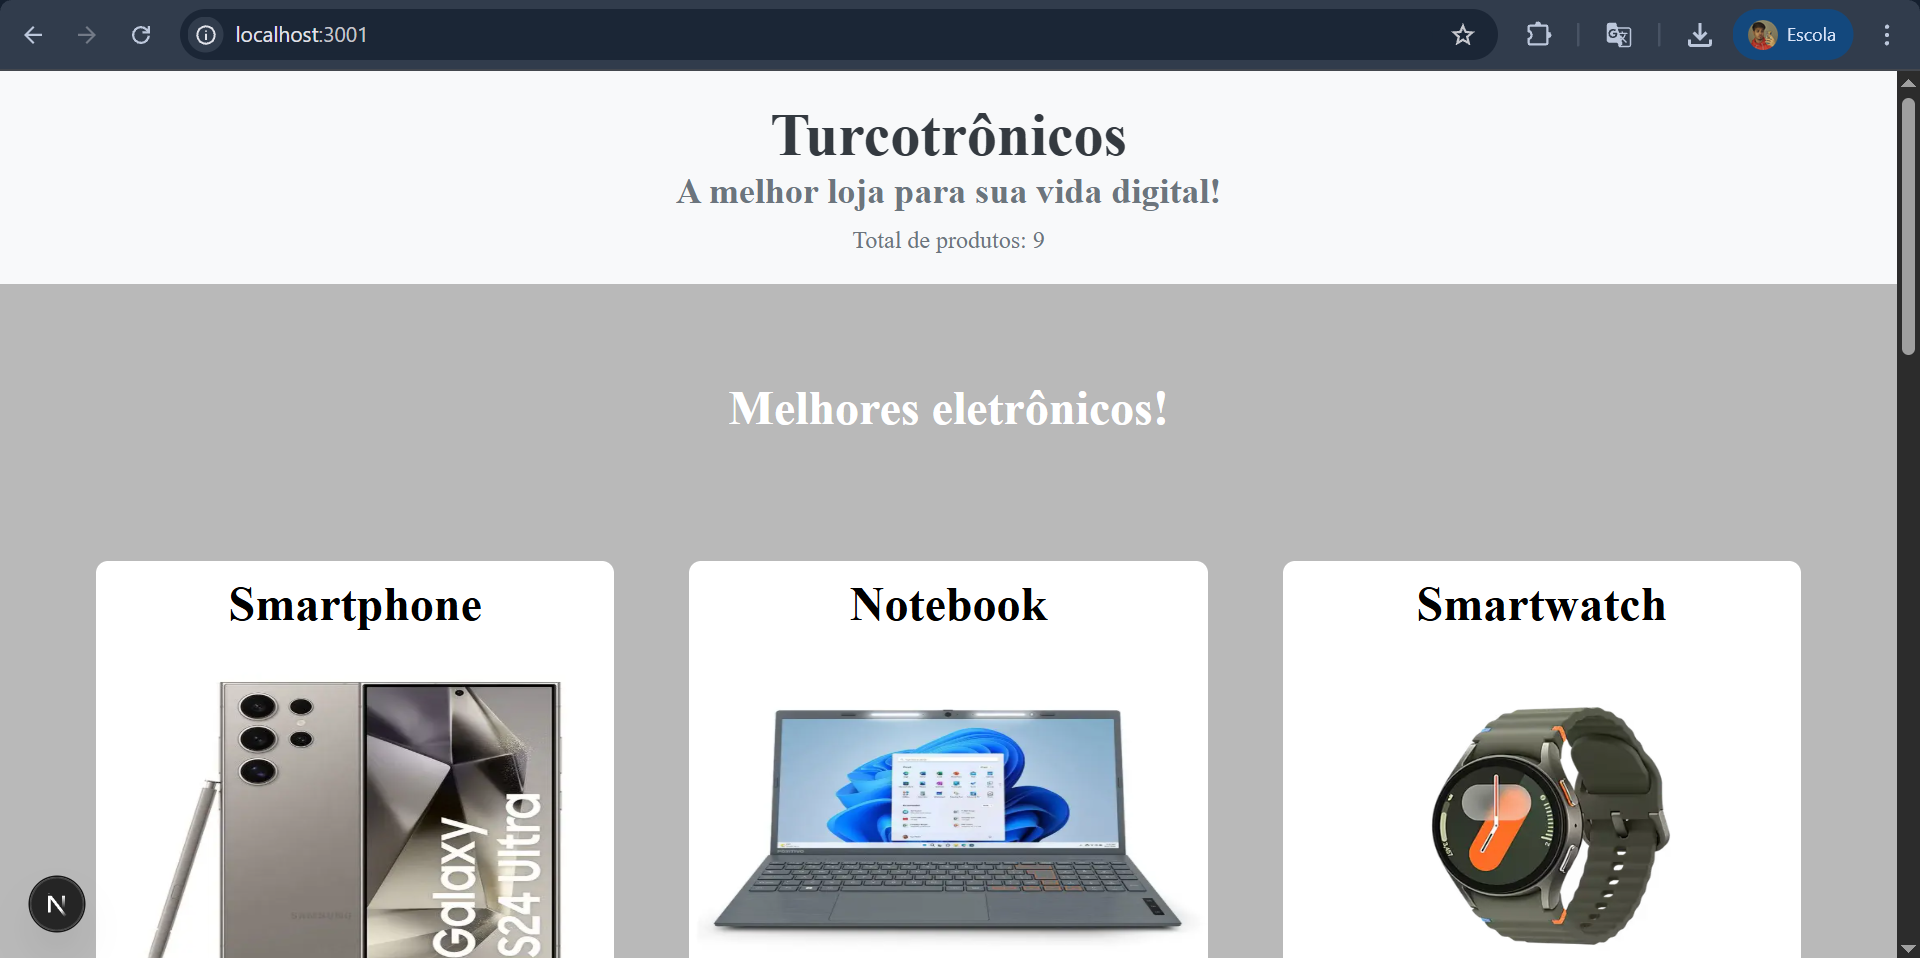
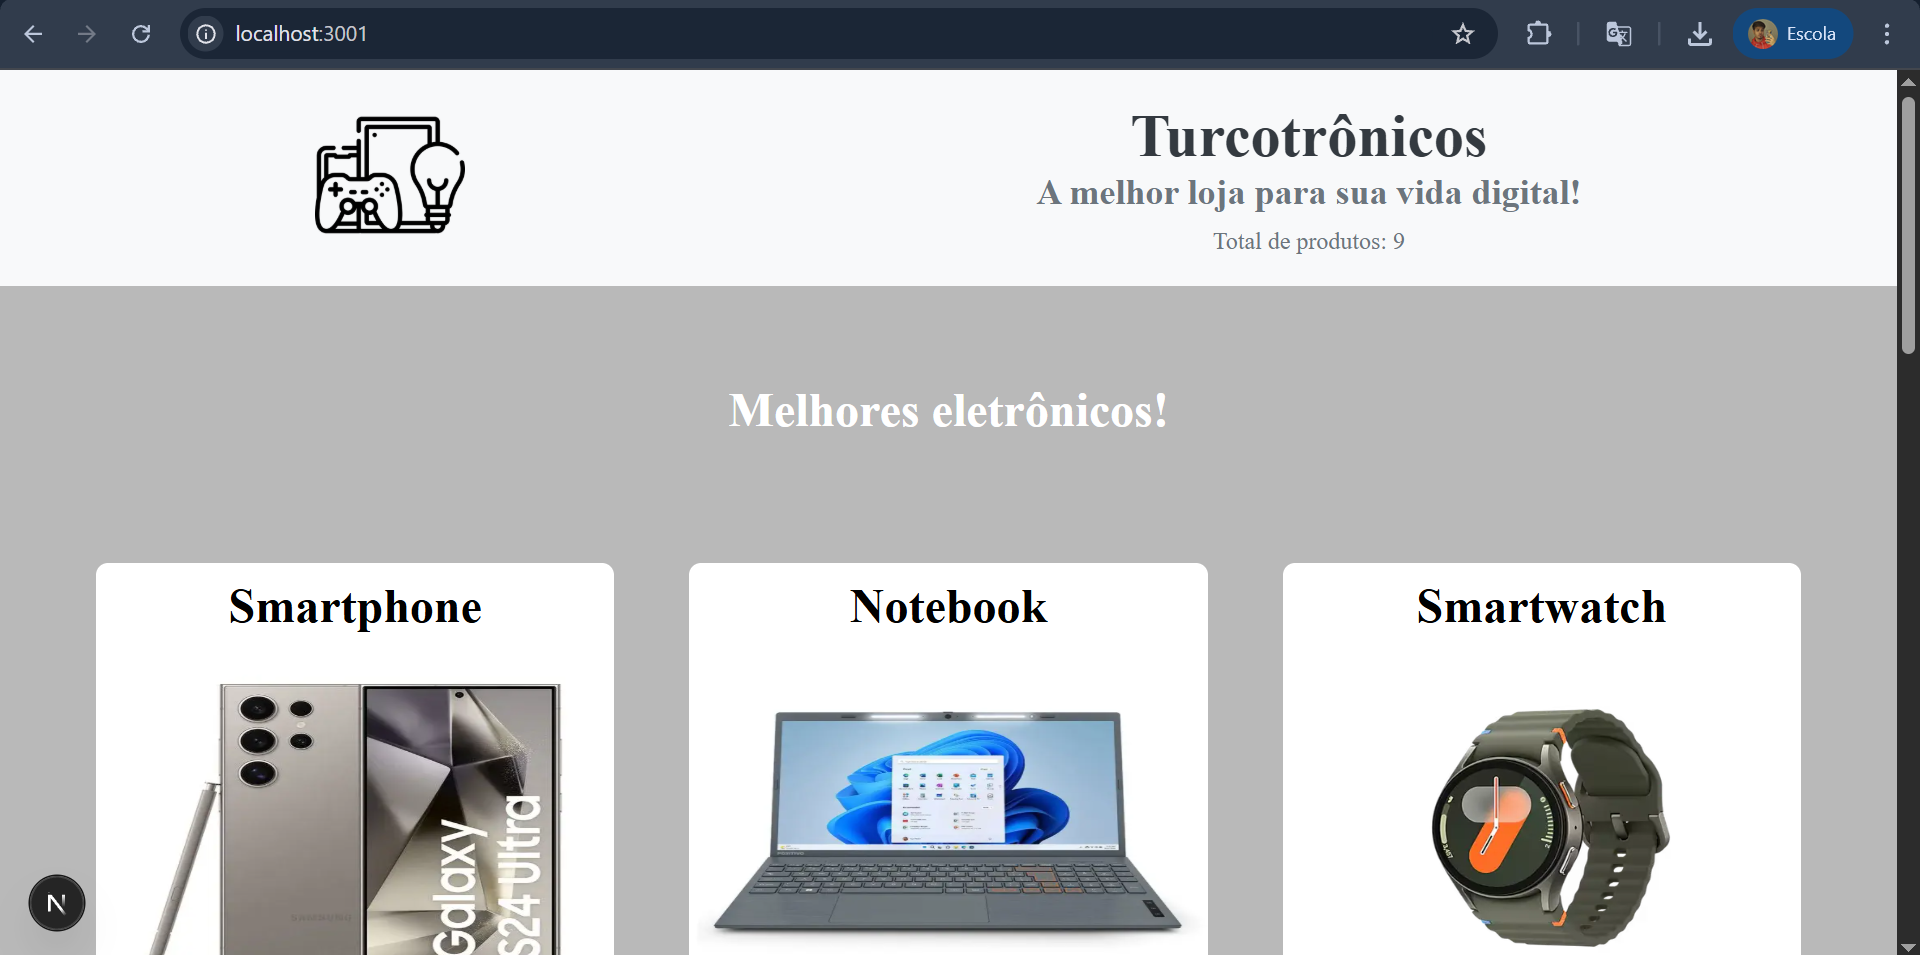
Update

diff --git a/src/components/Header/Header.jsx b/src/components/Header/Header.jsx
@@ -1,11 +1,17 @@
 import styles from "./Header.module.css";
+import Image from "next/image";
 
-export default function Header({title, subtitle, totalProducts}) {
+export default function Header({ title, subtitle, totalProducts }) {
     return (
         <div className={styles.container}>
-            <h1 className={styles.title}>{title}</h1>
-            <h3 className={styles.subtitle}>{subtitle}</h3>
-            <p className={styles.description}>{totalProducts}</p>
+            <div className={styles.logo}>
+                <Image src="/images/logoturco.png" alt="Logo" width={100} height={100} priority />
+            </div>
+            <div className={styles.text}>
+                <h1 className={styles.title}>{title}</h1>
+                <h3 className={styles.subtitle}>{subtitle}</h3>
+                <p className={styles.description}>{totalProducts}</p>
+            </div>
         </div>
     );
 }

diff --git a/src/components/Header/Header.module.css b/src/components/Header/Header.module.css
@@ -1,4 +1,8 @@
 .container {
+    display: flex;
+    flex-direction: row;
+    align-items: center;
+    justify-content: space-around;
     background-color: #f8f9fa;
     padding: 20px;
     text-align: center;
